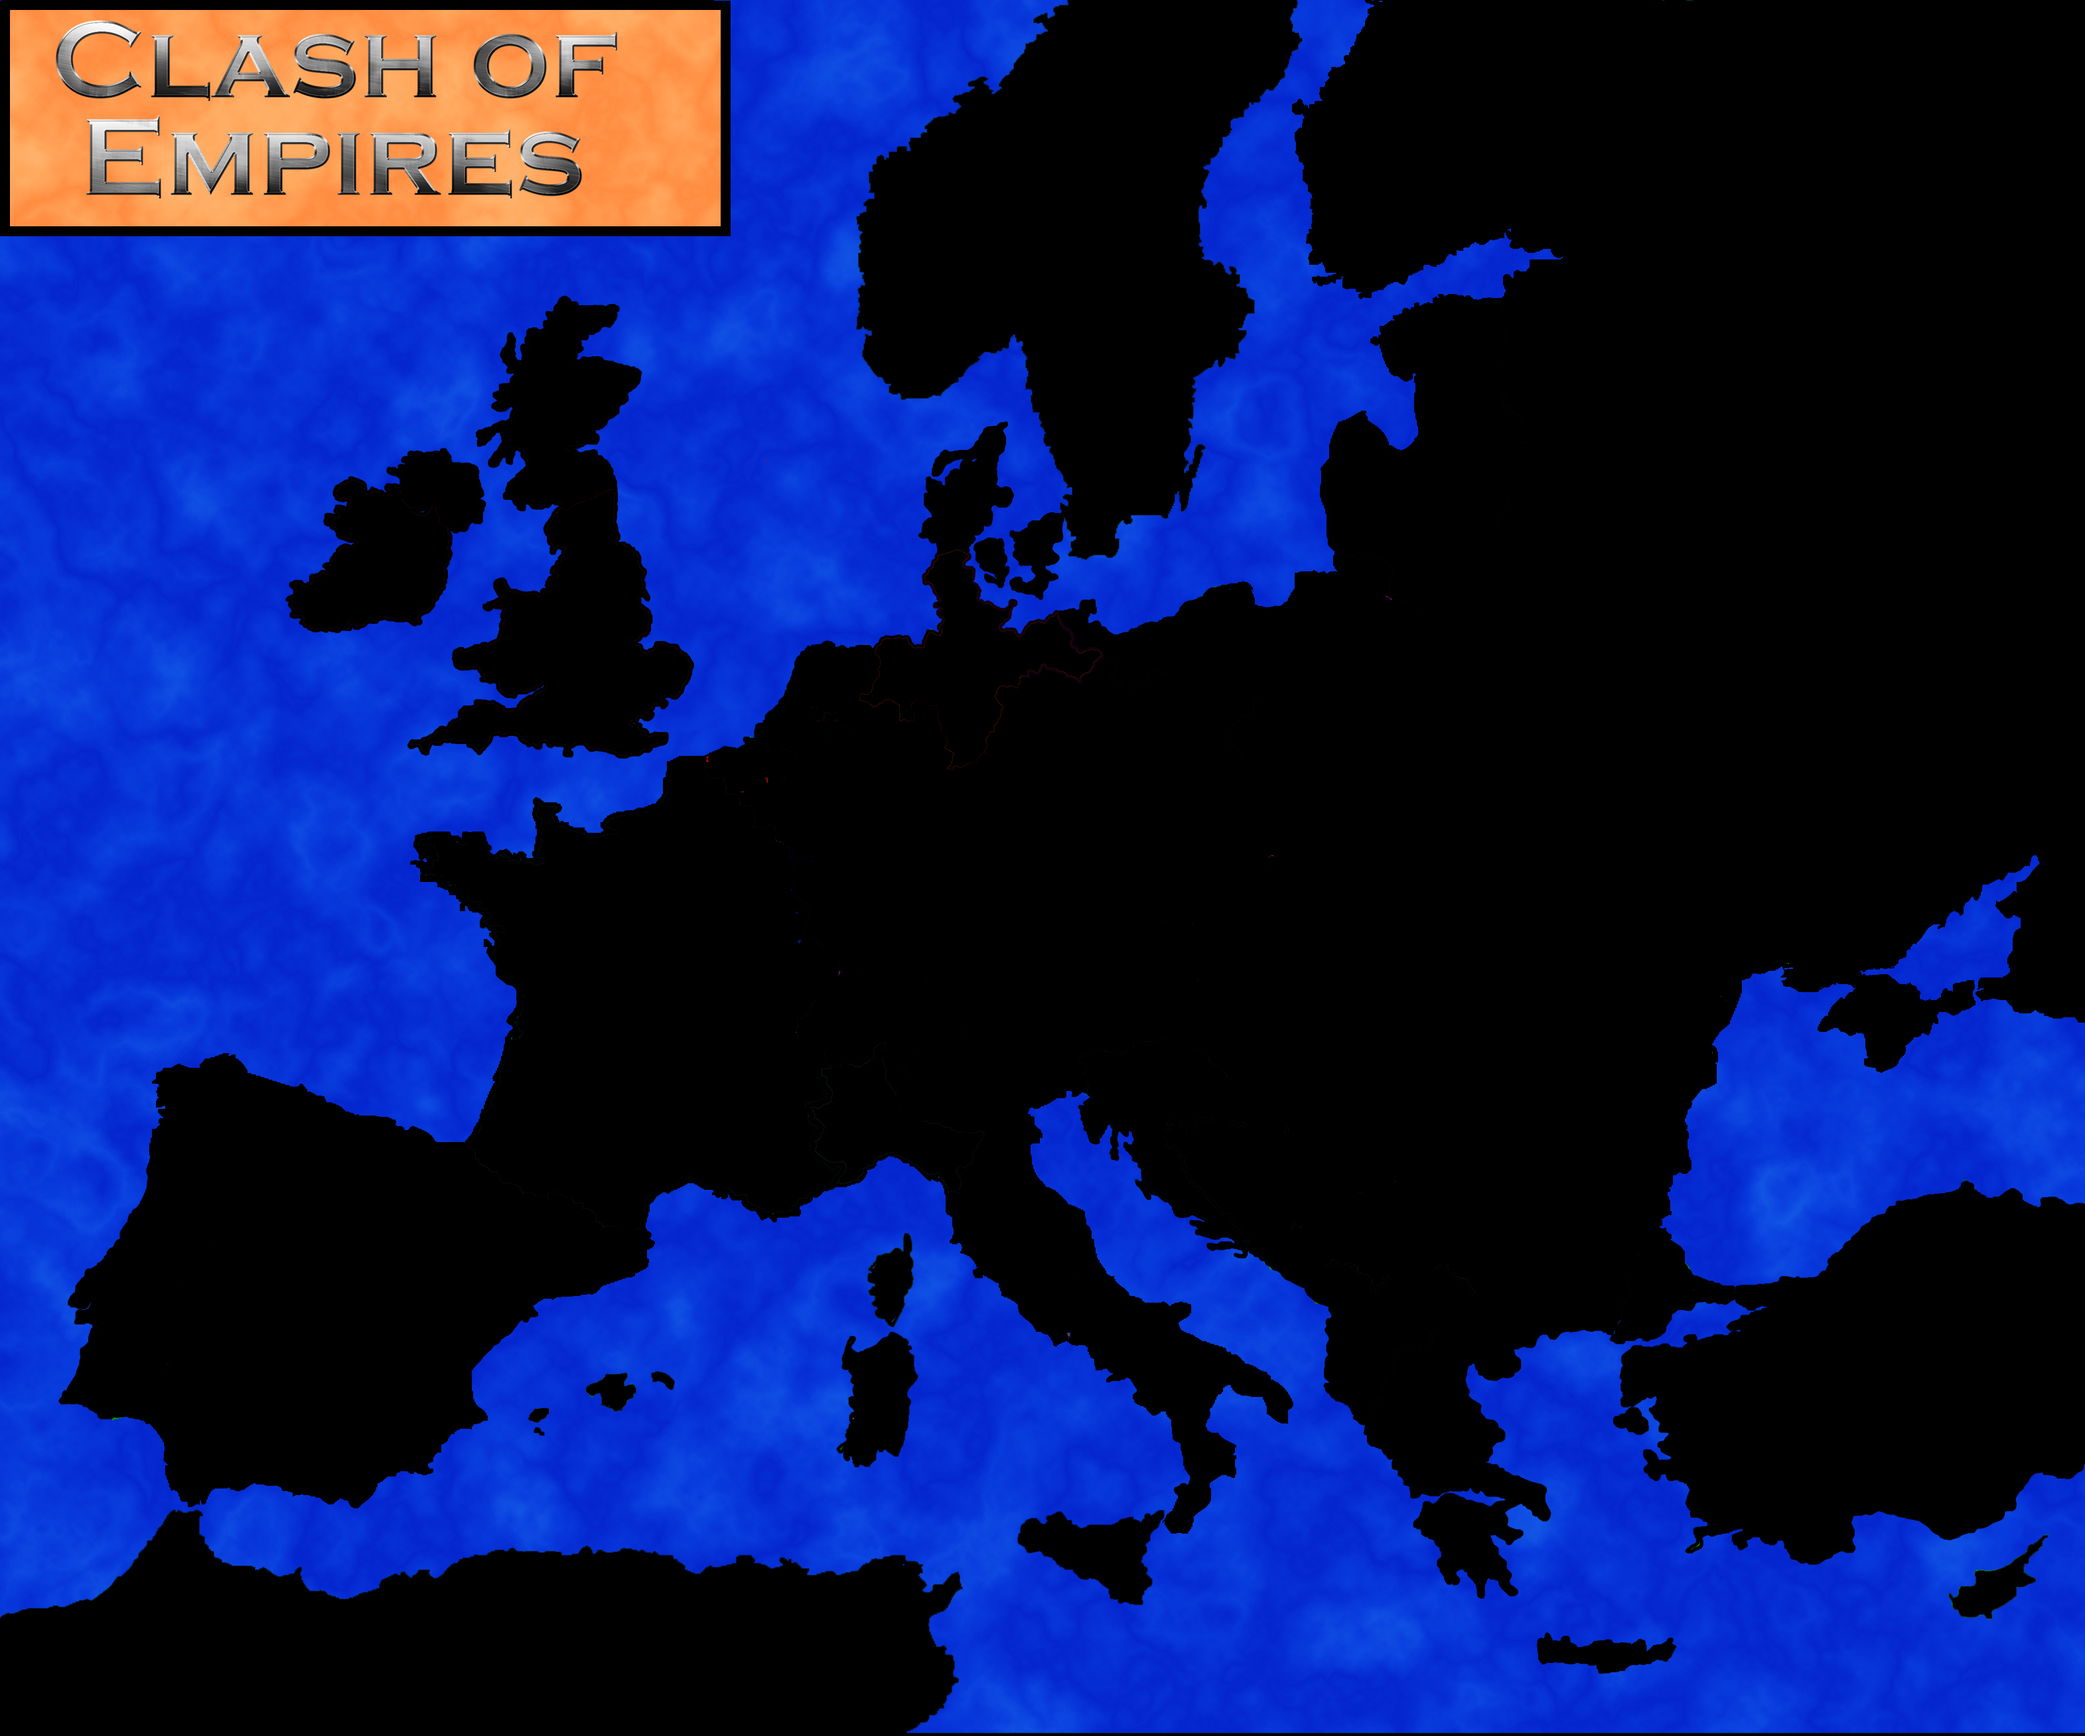
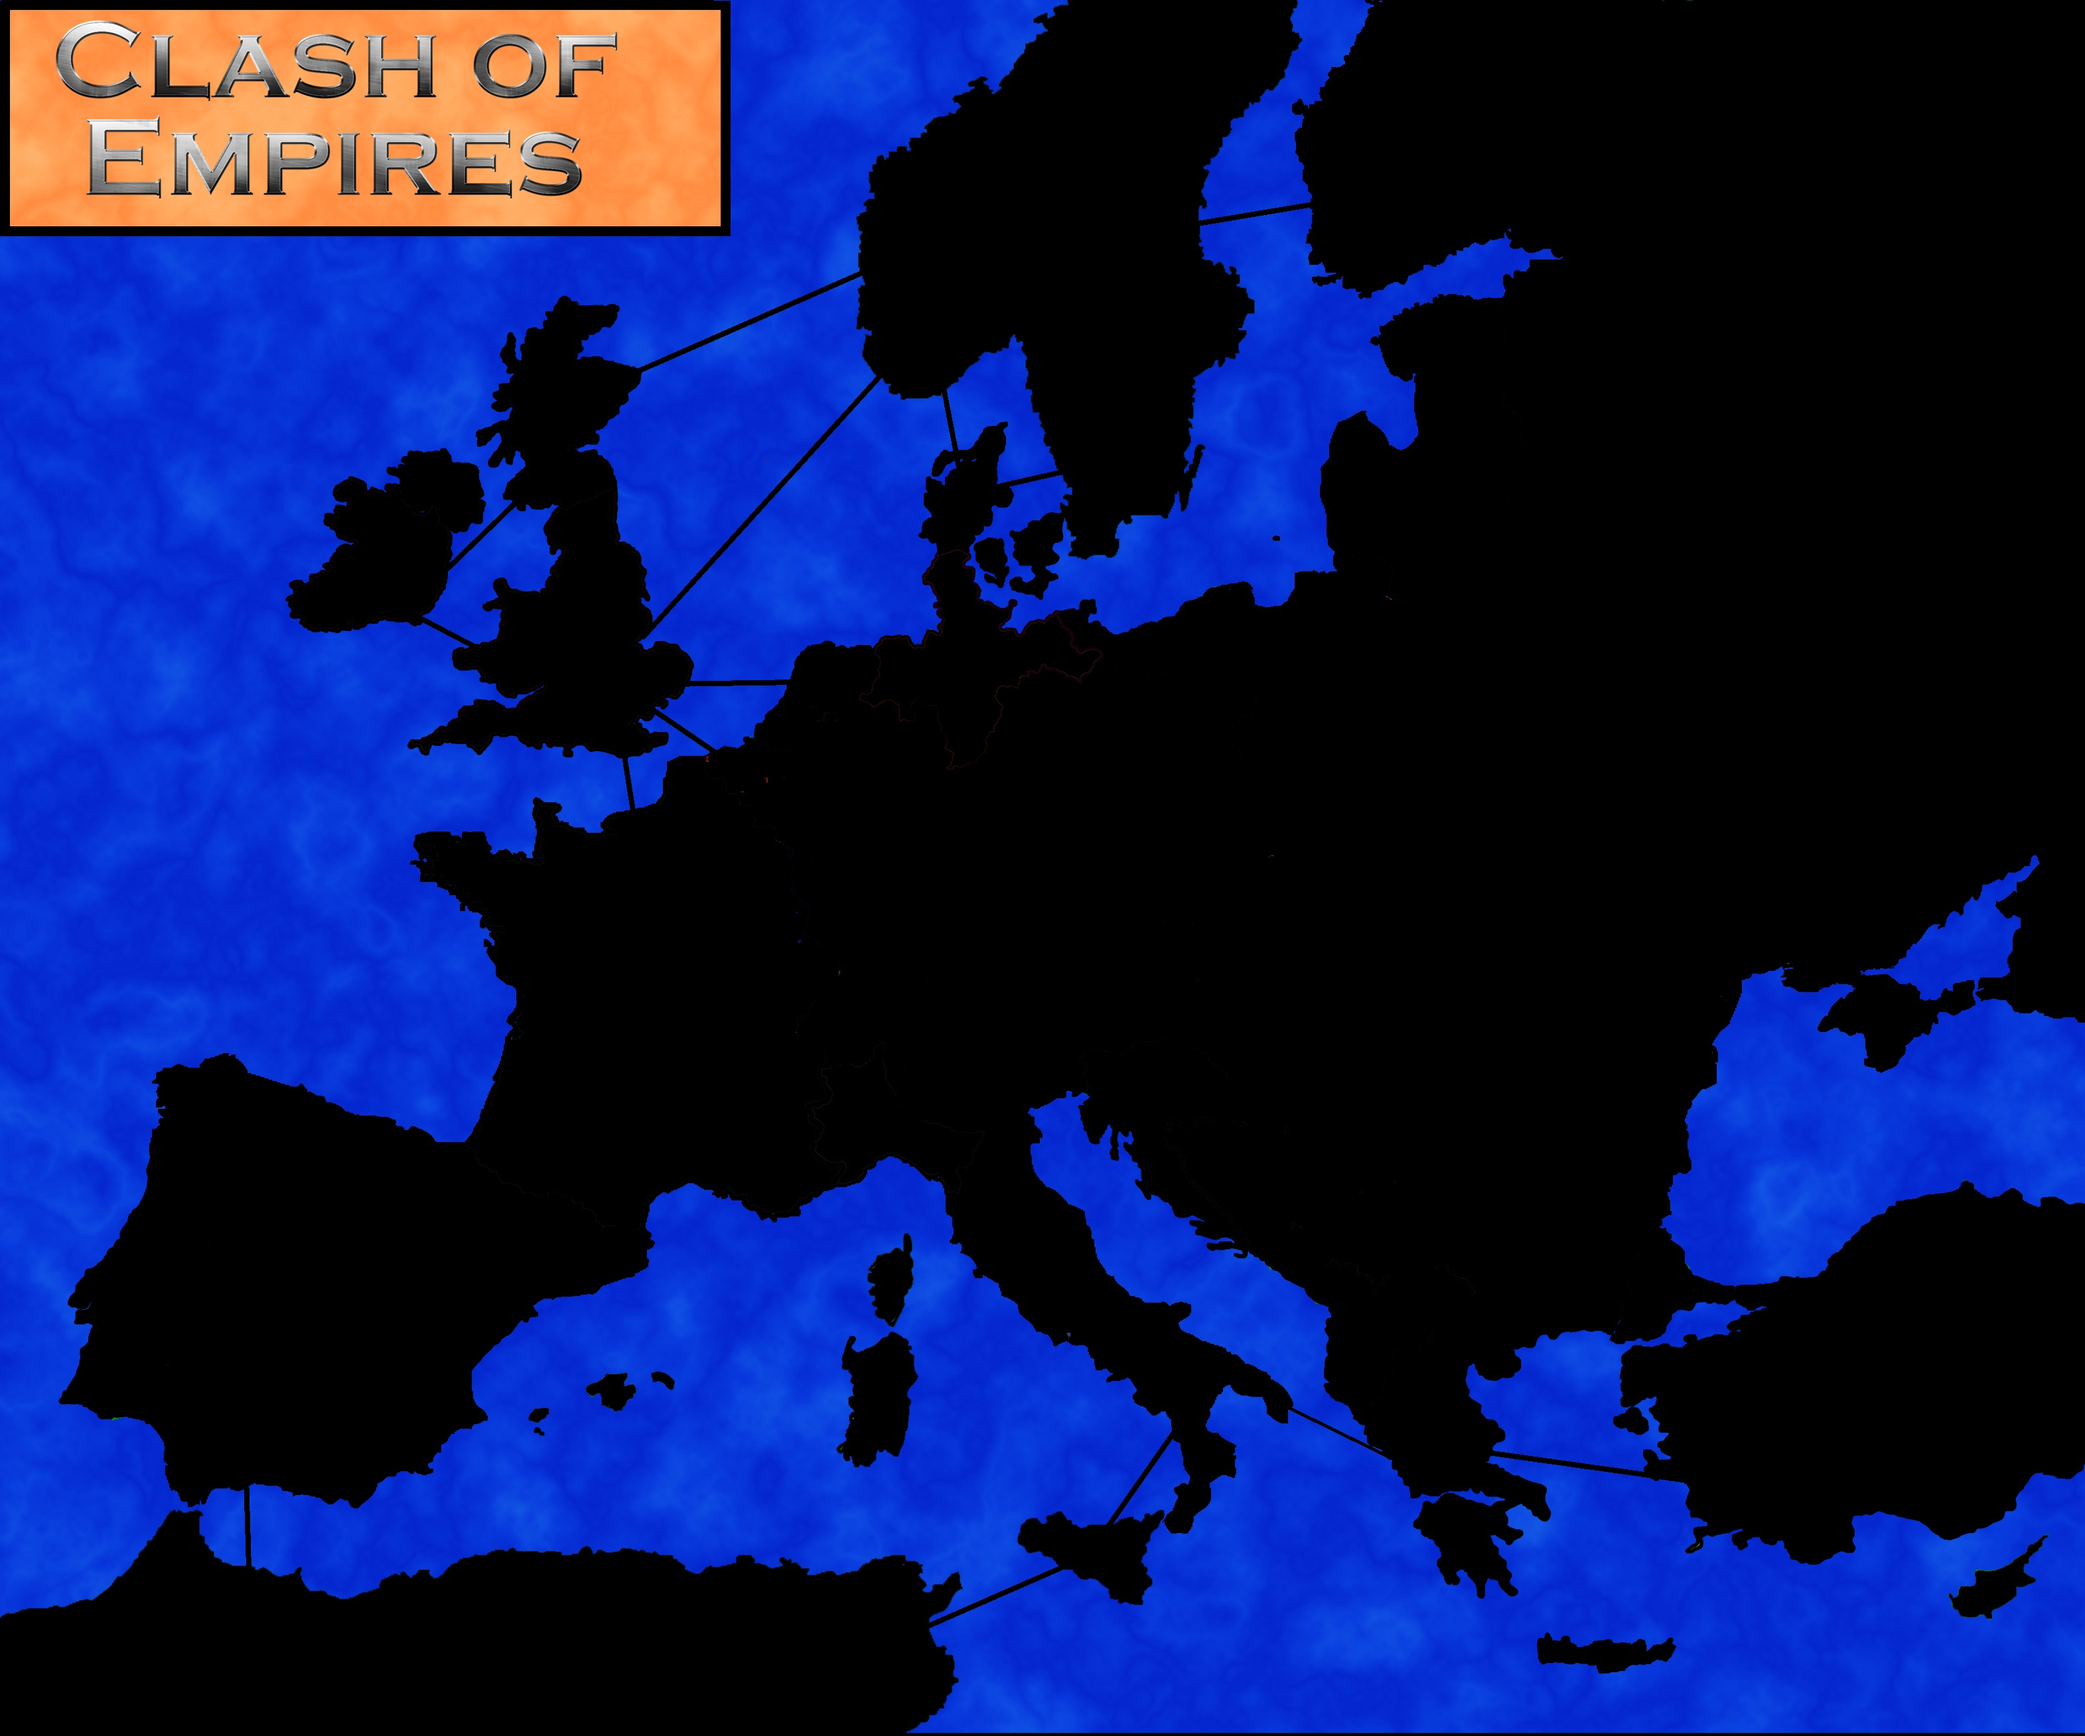
Fixed bug with canvas and SVG integration

diff --git a/client/view/MapDisplay.js b/client/view/MapDisplay.js
@@ -17,6 +17,8 @@ function MapDisplay(topX,topY,mapImg,dataCon,background,pName){
     var labelConfig={};
     var tShapeConfig={};
 
+    var clicks={}
+
     var maxTime=30
     var displayCache=new DisplayCache("stuff")
 
@@ -48,6 +50,8 @@ function MapDisplay(topX,topY,mapImg,dataCon,background,pName){
                         .attr("transform","scale(0.25)")
                         .on("click",function(d,i){console.log(d+":"+i+"  "+reg); dataCon.sendClick(reg,pName)      })
                 });
+
+
                 var rifle=new Image();
                 rifle.onload=function(){
                     var canvas=document.getElementById('myCanvas');
@@ -57,18 +61,21 @@ function MapDisplay(topX,topY,mapImg,dataCon,background,pName){
                     ctx.rect(0,0,100,100)
                     Object.keys(data).forEach(function(reg){
                         var d=data[reg];
-                        console.log("Region name:"+reg)
-                        console.log(d["aX"]+":"+d["aY"])
-                        var x=data[reg]["x"]*1.34
-                        var y=data[reg]["y"]*1.34
+                        var x=data[reg]["x"]*1.335
+                        var y=data[reg]["y"]*1.345
                         ctx.drawImage(rifle,x,y,15,15*rifle.height/rifle.width)
                     });
 
                 }
                 rifle.src='images/soldier.png'
 
+
             }
         })
+   }
+
+   this.drawLines=function(){
+
    }
 
     //Load data and draw regions
@@ -94,7 +101,10 @@ function MapDisplay(topX,topY,mapImg,dataCon,background,pName){
 
         var svg=d3.select("svg")
         gameState["regionStates"].map(function(state){
-            displayCache.updateReg(state["name"],state["owner"])
+
+            svg.selectAll("path#"+state["name"])
+                .attr("fill",colorData[state["owner"]])
+          //  displayCache.updateReg(state["name"],state["owner"])
             svg.selectAll("text#"+state["name"])
                 .text(state["army"])
         });
@@ -118,6 +128,7 @@ function MapDisplay(topX,topY,mapImg,dataCon,background,pName){
 
         //Indicate that an area has been clicked.
         var clickData=dataCon.getSavedClick();
+
 
         svg.selectAll("path#"+clickData)
             .attr("fill","white")

diff --git a/server/maps/Europe.js b/server/maps/Europe.js
@@ -92,7 +92,7 @@ function Europe(data){
         rTemp["Tunisia"].setOwner(players[0]);
 
 
-
+/*
         rTemp["Thuringen"].setOwner(players[2]);
         rTemp["Prussia"].setOwner(players[2]);
         rTemp["Silesia"].setOwner(players[2]);
@@ -104,6 +104,18 @@ function Europe(data){
         rTemp["SH"].setOwner(players[2]);
         rTemp["Berlin"].setOwner(players[2]);
         rTemp["Pomerania"].setOwner(players[2]);
+*/
+        rTemp["Greece"].setOwner(players[2])
+        rTemp["Turkey"].setOwner(players[2])
+        rTemp["Albania"].setOwner(players[2])
+        rTemp["Bulgaria"].setOwner(players[2])
+        rTemp["Serbia"].setOwner(players[2])
+        rTemp["Bosnia"].setOwner(players[2])
+        rTemp["Croatia"].setOwner(players[2])
+        rTemp["Romania"].setOwner(players[2])
+        rTemp["Hungary"].setOwner(players[2])
+        rTemp["Sicily"].setOwner(players[2])
+
 
 
         rTemp["Ukraine"].setOwner(players[3]);

diff --git a/gameHost.html b/gameHost.html
@@ -50,6 +50,7 @@
     <script src="lib/socket.io.js"></script>
 	<script src="lib/jquery.min.js"></script>
     <script src="client/view/displayCache.js"></script>
+    <script src="client/view/Line.js"></script>
     <script src="client/controller/inputListeners.js"></script>
     <script src="server/game/util/Timer.js"></script>
     <script src="client/network/DataConnection.js"></script>
@@ -65,7 +66,7 @@
 
     <script src="client/view/Driver.js"></script>
 
-    <canvas id="myCanvas" width="1000px" height="1000px" style="position:absolute; top:0px; left:0px"></canvas>
+    <canvas id="myCanvas" width="1000px" height="1000px" style="pointer-events: none; position:absolute; top:0px; left:0px"></canvas>
 
 
 

diff --git a/server/game/GameMap.js b/server/game/GameMap.js
@@ -118,7 +118,7 @@ function GameMap(mapGen){
 
 
         //Build troops for each region
-        if(time%30==0){
+        if(time%60==0){
             regions.forEach(function(region){
                 region.buildTroop();
             });
